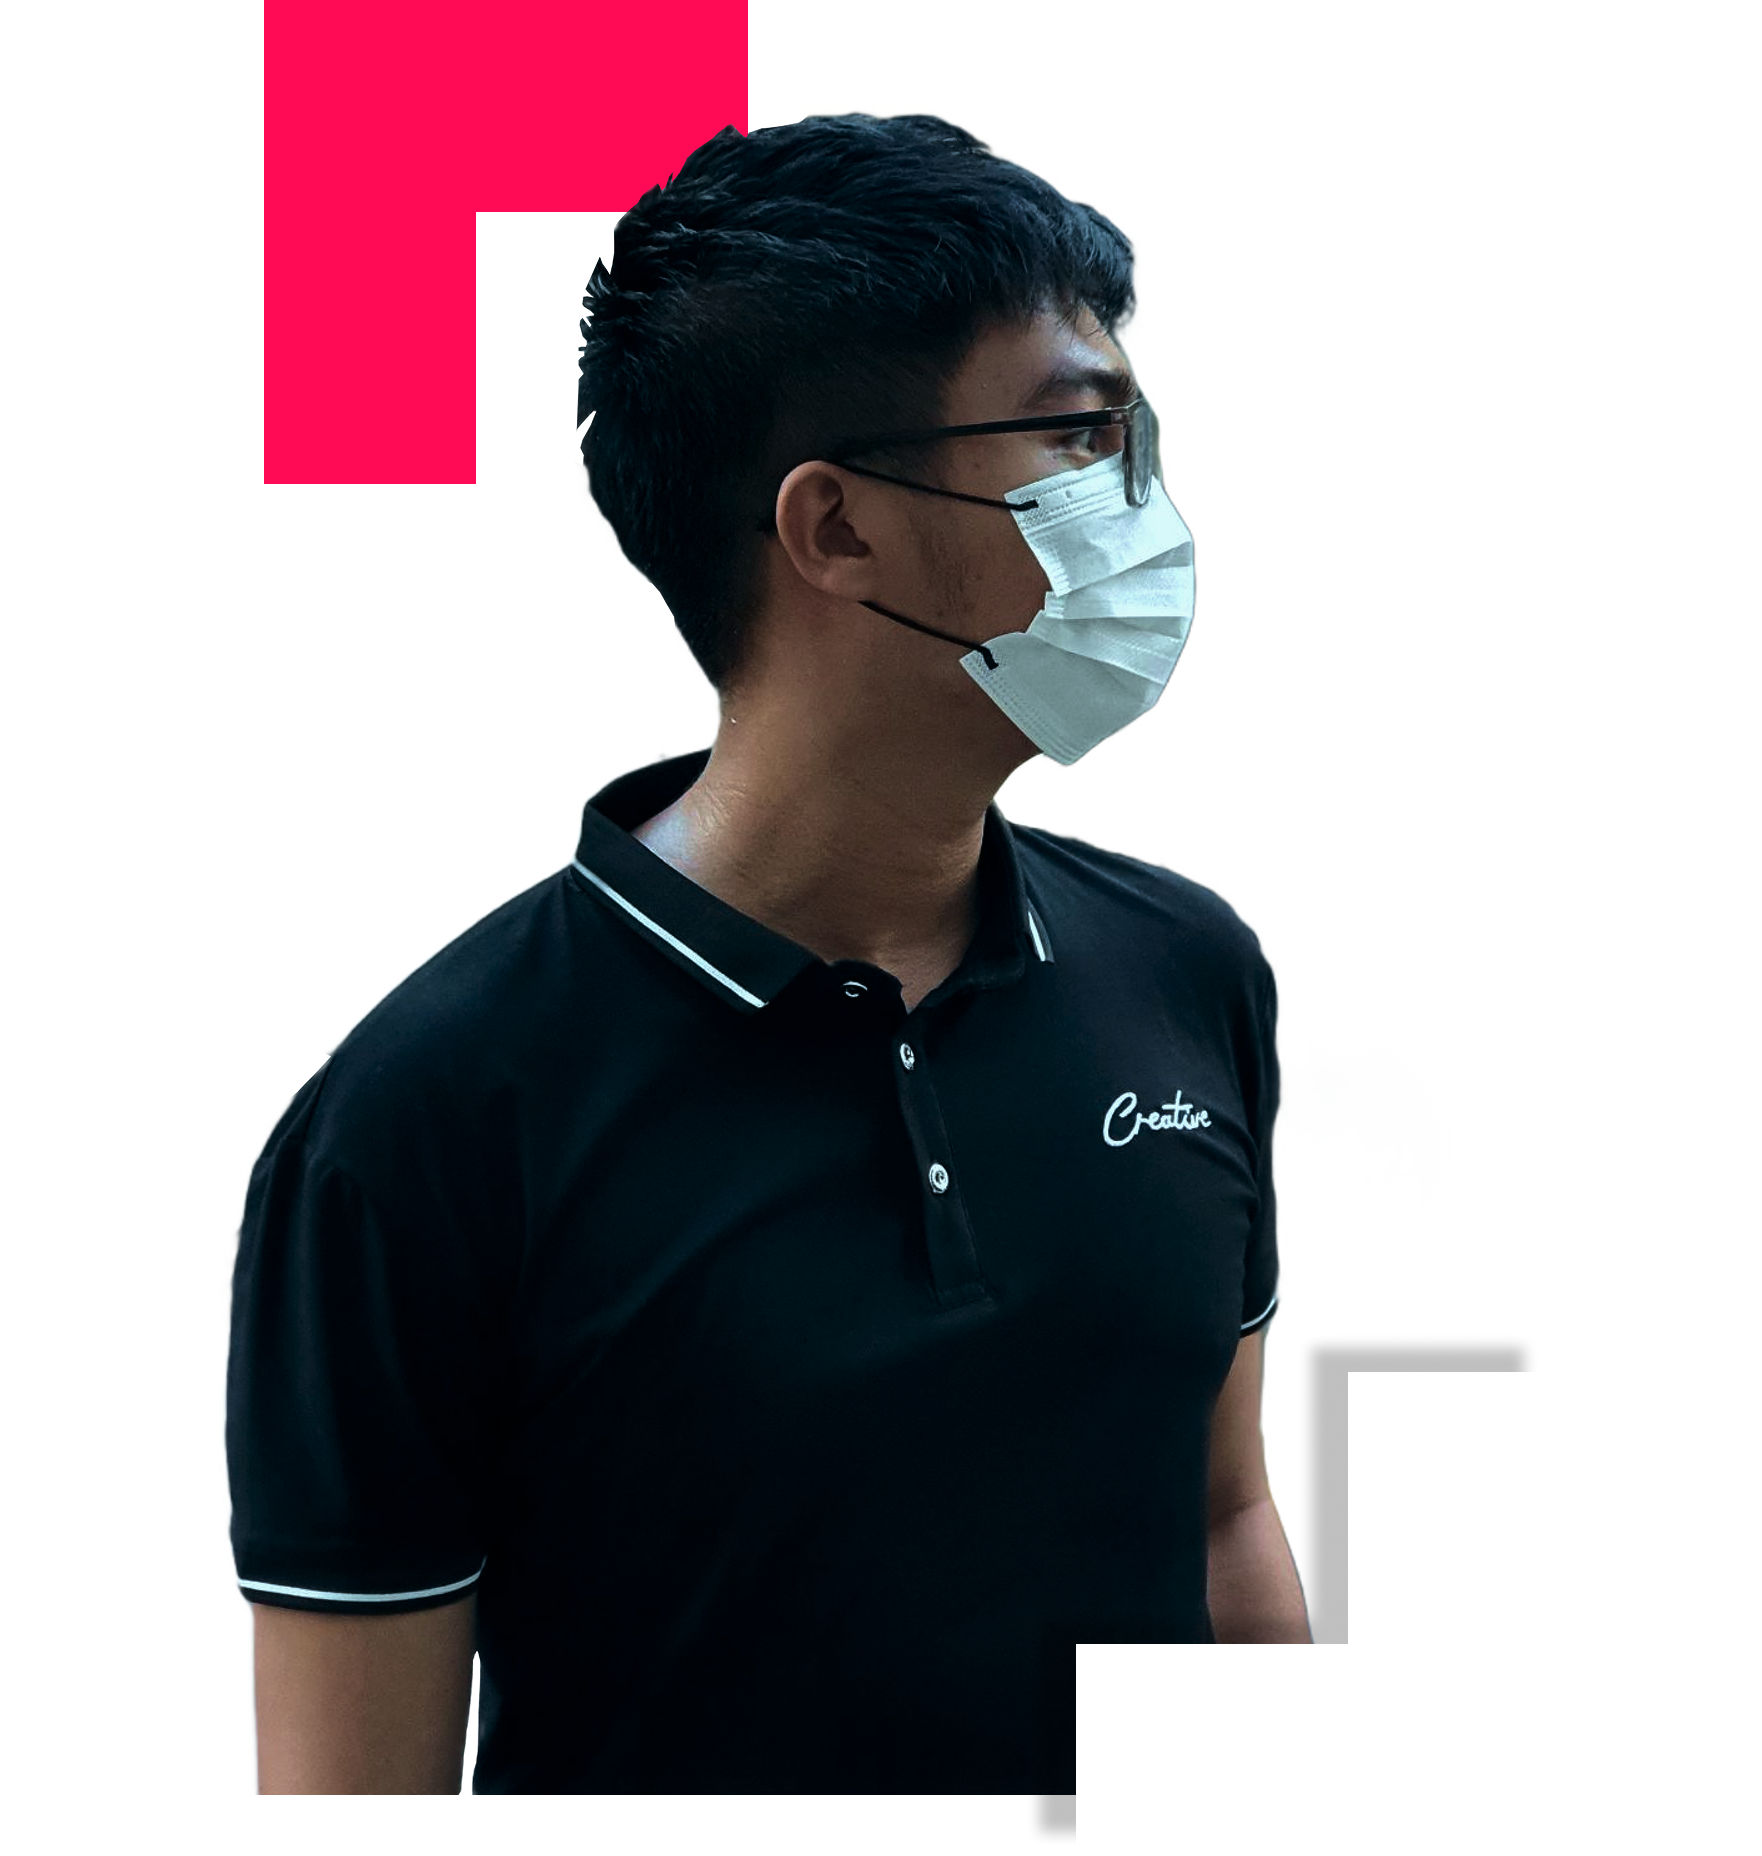
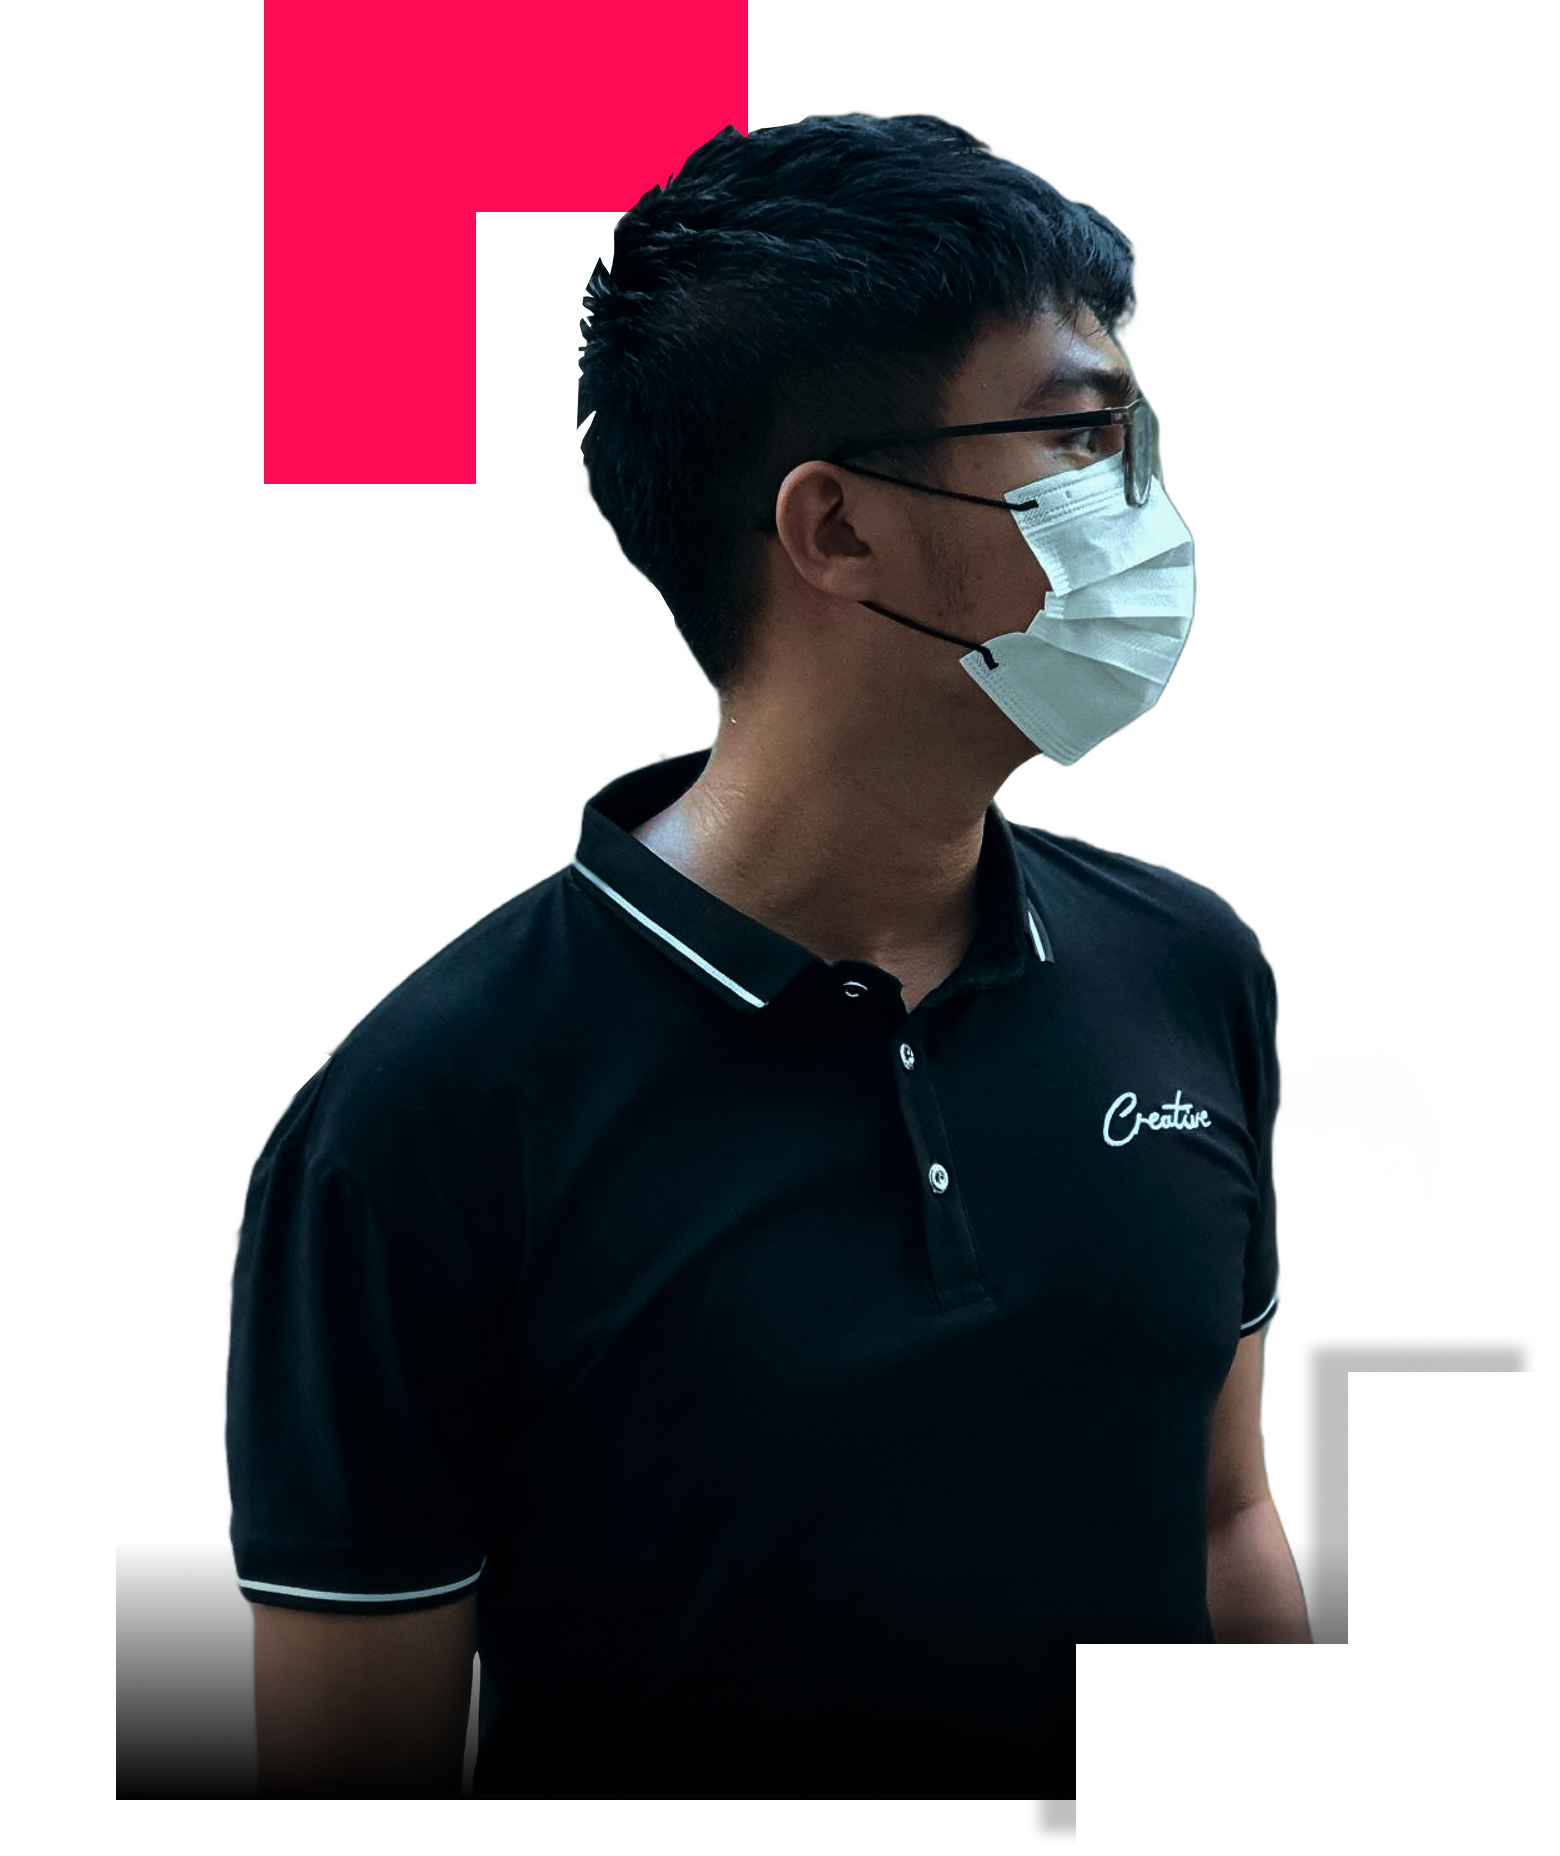
[update] home page from image size & nav

diff --git a/src/components/Nav.jsx b/src/components/Nav.jsx
@@ -130,7 +130,7 @@ const Nav = () => {
             },
           }}
         >
-          content
+          contact
         </Typography>
       </a>
     </Container>
